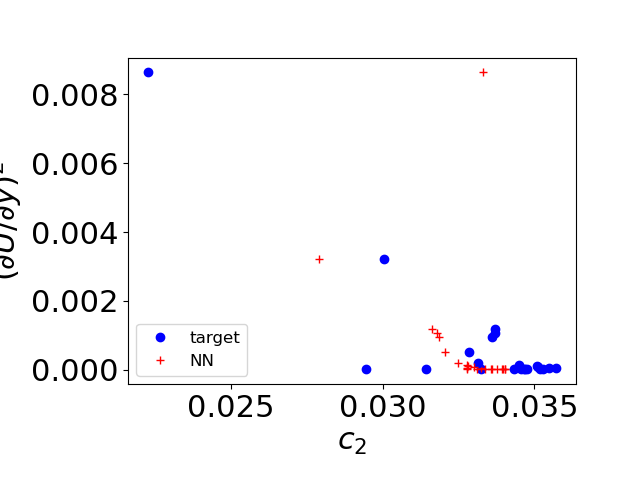
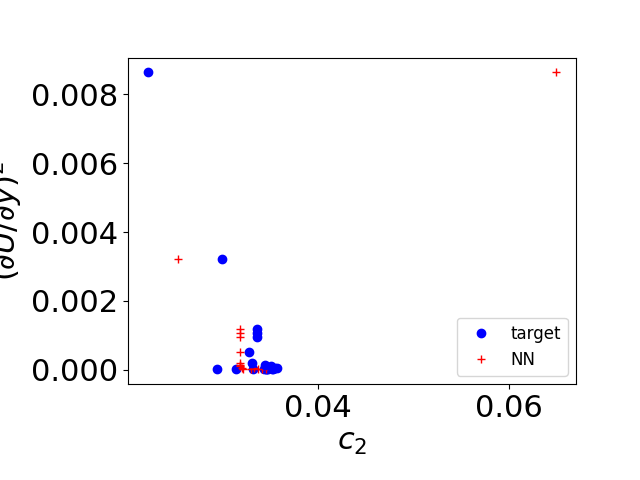
gemensamt fix

diff --git a/NN-train-BL.py b/NN-train-BL.py
@@ -350,9 +350,9 @@ class ThePredictionMachine(nn.Module):
 
 
     def forward(self, x):
-        x = nn.functional.relu(self.input(x))
-        x = nn.functional.relu(self.hidden1(x))
-        x = self.hidden2(x)
+        x = self.input(x)
+        x = self.hidden1(nn.functional.relu(x))
+        x = self.hidden2(nn.functional.relu(x))
 
 #       x = nn.functional.relu(self.input(x))
 #       x = nn.functional.relu(self.hidden1(x))
@@ -458,7 +458,7 @@ print(f"{'time ML: '}{time.time()-start_time:.2e}")
 #transform from tensor to numpy
 c_NN = preds.detach().numpy()
  
-c_NN_old = c_NN
+#c_NN_old = c_NN
 
 c0=c_NN[:,0]
 c2=c_NN[:,1]
